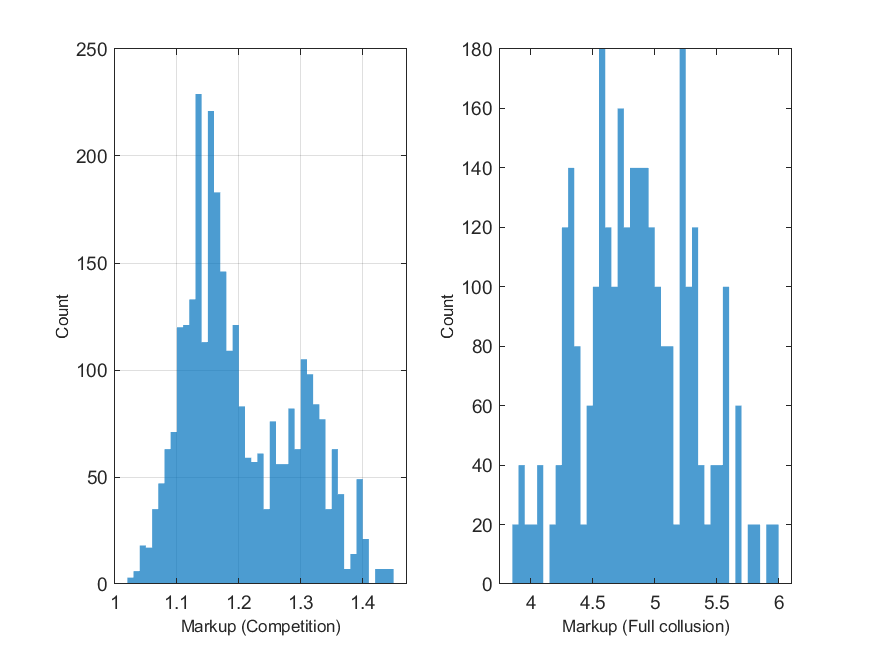
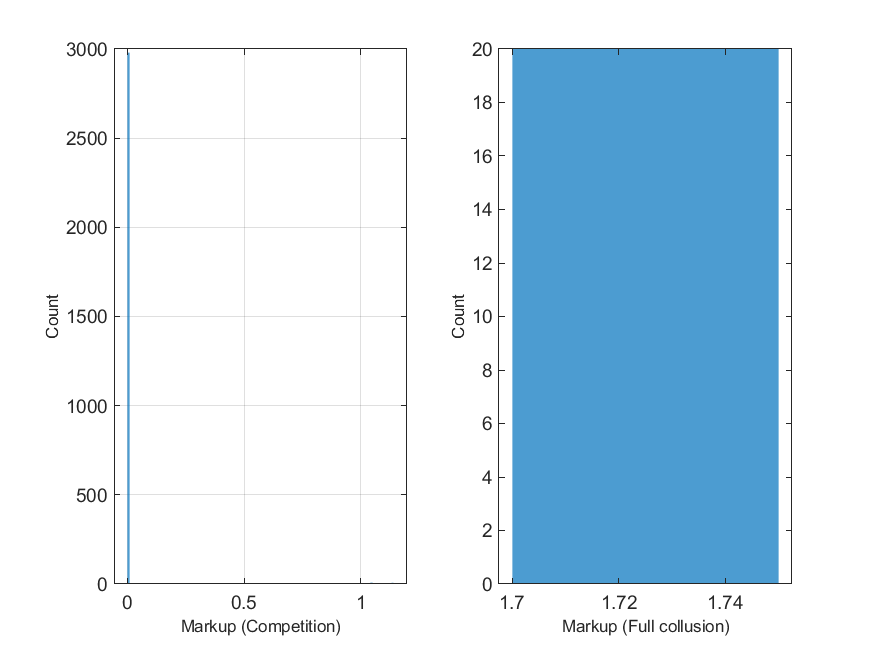
quick fix

diff --git a/Main.m b/Main.m
@@ -374,14 +374,14 @@ end
 % SUPPLY - QUESTION 5
 %%%%%%%%%%%%%%%%%%%%%
 % MARKET SHARE ESTIMATED FROM LOGIT
-nume=zeros(1,J);
-deno=zeros(1,1);
+nume=zeros(T_pre,J);
+deno=zeros(T_pre,1);
 deno=exp(deno);
-market_share_hat_matrix=zeros(1,J);
-market_share_hat=zeros(1*J,1);
+market_share_hat_matrix=zeros(T_pre,J);
+market_share_hat=zeros(T_pre*J,1);
 
 % Loop over markets and products
-for t=1
+for t=1:T_pre
     for j=1:J
         idx=(t-1)*J+j; % Linear index for market-share-related variables
         utility=theta_d_GMM(1,1)+theta_d_GMM(2,1)*x((t-1)*J+j,1)+theta_d_GMM(3,1)*price((t-1)*J+j,1)+xi_GMM((t-1)*J+j,1);
@@ -402,7 +402,7 @@ for j=1:J
 end
 
 % ESTIMATED JACOBIAN DEMAND
-Qp=zeros(J,J);
+Qp=zeros(J*T_pre,J);
 for t=1
     for j=1:J
         Qp(market==t,j)=abs(theta_d_GMM(3,1))*(market_share_hat(market==t,1).*market_share_hat_matrix(t,j));
@@ -412,8 +412,61 @@ for t=1
 end
 
 % PRICE-COST MARGIN UNDER COMPETITION
-markup_hat_compet=zeros((J),1);
+markup_hat_compet=zeros((J*T_pre),1);
 for t=1
+    markup_hat_compet(market==t,1)=-(Qp(market==t,:).*OF)\market_share_hat(market==t,1);
+end
+
+% PRICE-COST MARGIN UNDER COLLUSION
+markup_hat_col=zeros((J*T_pre),1);
+for t=1:T_pre
+    markup_hat_col(market==t,1)=-(Qp(market==t,:))\market_share_hat(market==t,1);
+end
+
+%%%%%%%%%%%%%%%%%%%%%
+% SUPPLY - QUESTION 5
+%%%%%%%%%%%%%%%%%%%%%
+% MARKET SHARE ESTIMATED FROM LOGIT
+nume=zeros(T_pre,J);
+deno=zeros(T_pre,1);
+deno=exp(deno);
+market_share_hat_matrix=zeros(T_pre,J);
+market_share_hat=zeros(T_pre*J,1);
+
+% Loop over markets and products
+for t=1:T_pre
+    for j=1:J
+        idx=(t-1)*J+j; % Linear index for market-share-related variables
+        utility=theta_d_GMM(1,1)+theta_d_GMM(2,1)*x((t-1)*J+j,1)+theta_d_GMM(3,1)*price((t-1)*J+j,1)+xi_GMM((t-1)*J+j,1);
+        nume(t,j)=exp(utility);
+        deno(t,1)=deno(t,1)+nume(t,j);
+    end
+    for j=1:J
+        market_share_hat_matrix(t,j)=nume(t,j)./deno(t,1);
+        market_share_hat((t-1)*J+j,1)=market_share_hat_matrix(t,j);
+    end
+end
+
+% OWNERSHIP MATRIX WHEN COMPETITION
+OF=zeros(J,J);
+firm_matrix=customDummyVar(firm);
+for j=1:J
+    OF(j,:)=firm_matrix(market==t,firm(market==t&product==j,1))';
+end
+
+% ESTIMATED JACOBIAN DEMAND
+Qp=zeros(J*T_pre,J);
+for t=1:T_pre
+    for j=1:J
+        Qp(market==t,j)=abs(theta_d_GMM(3,1))*(market_share_hat(market==t,1).*market_share_hat_matrix(t,j));
+    end
+    Qp(market==t,:)=Qp(market==t,:).*(ones(J,J)-eye(J));
+    Qp(market==t,:)=Qp(market==t,:)+diag(theta_d_GMM(3,1)*(market_share_hat(market==t,1).*(ones(J,1)-market_share_hat(market==t,1))));
+end
+
+% PRICE-COST MARGIN UNDER COMPETITION
+markup_hat_compet=zeros((J*T_pre),1);
+for t=1:T_pre
     markup_hat_compet(market==t,1)=-(Qp(market==t,:).*OF)\market_share_hat(market==t,1);
 end
 
@@ -435,7 +488,7 @@ subplot(1,2,2);
 histogram(markup_hat_col,'BinWidth',0.05,'FaceAlpha',0.7,'EdgeColor','none');
 xlabel('Markup (Full collusion)','FontSize',8);
 ylabel('Count','FontSize',8);
-saveas(gcf,[outputPath,'markup_distribution_collusion.png']);
+saveas(gcf,'markup_distribution.png');
 
 %%%%%%%%%%%%%
 % QUESTION 6
@@ -529,6 +582,7 @@ end
 histogram(price_merge) 
 % pb 1: some prices negatives
 % pb 2: difficulty computing inverse of (Qp(:,:).*OF_merge)
+saveas(gcf,[outputPath,'price_merge.png']);
 
 % SOLVING USING fsolve
 % Define a global variable to store the history
@@ -553,9 +607,10 @@ for t = 1:T_pre
         'Display', 'final-detailed',...
         'OutputFcn', @outfun);   % Display iteration information
 %     price_merge2(J*(t-1)+1:J*t,1)  = fsolve(@(price_post) mergerSystem(price_post,x,theta_d_GMM,xi_GMM,t,J,market,OF_merge,mc_hat_comp,nume,deno,market_share_hat,market_share_hat_matrix,Qp), price_0, options);
-    price_merge2(J*(t-1)+1:J*t,1)  = fsolve(@(price_post) mergerSystem2(price_post,x,theta_d_GMM,xi_GMM,t,J,market,OF_merge,mc_hat_comp,nume,deno,market_share_hat,market_share_hat_matrix,Qp), price_0, options);
+    price_merge2(J*(t-1)+1:J*t,1)  = fsolve(@(price_post) mergerSystem(price_post,x,theta_d_GMM,xi_GMM,t,J,market,OF_merge,mc_hat_comp,nume,deno,market_share_hat,market_share_hat_matrix,Qp), price_0, options);
 end
 histogram(price_merge2)
+saveas(gcf,[outputPath,'price_merge2.png']);
 % pb: some prices negatives and overall too low
 plot(history(1:500));
 
